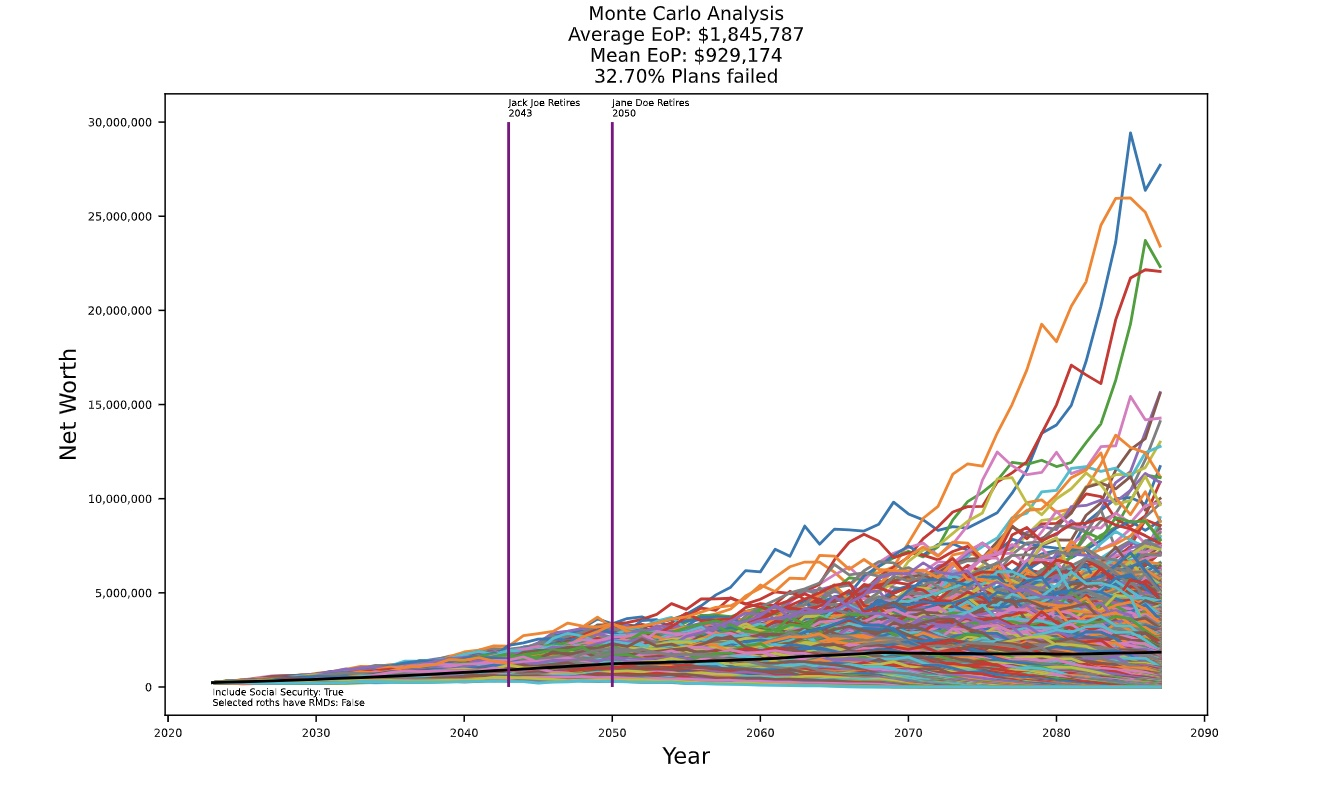
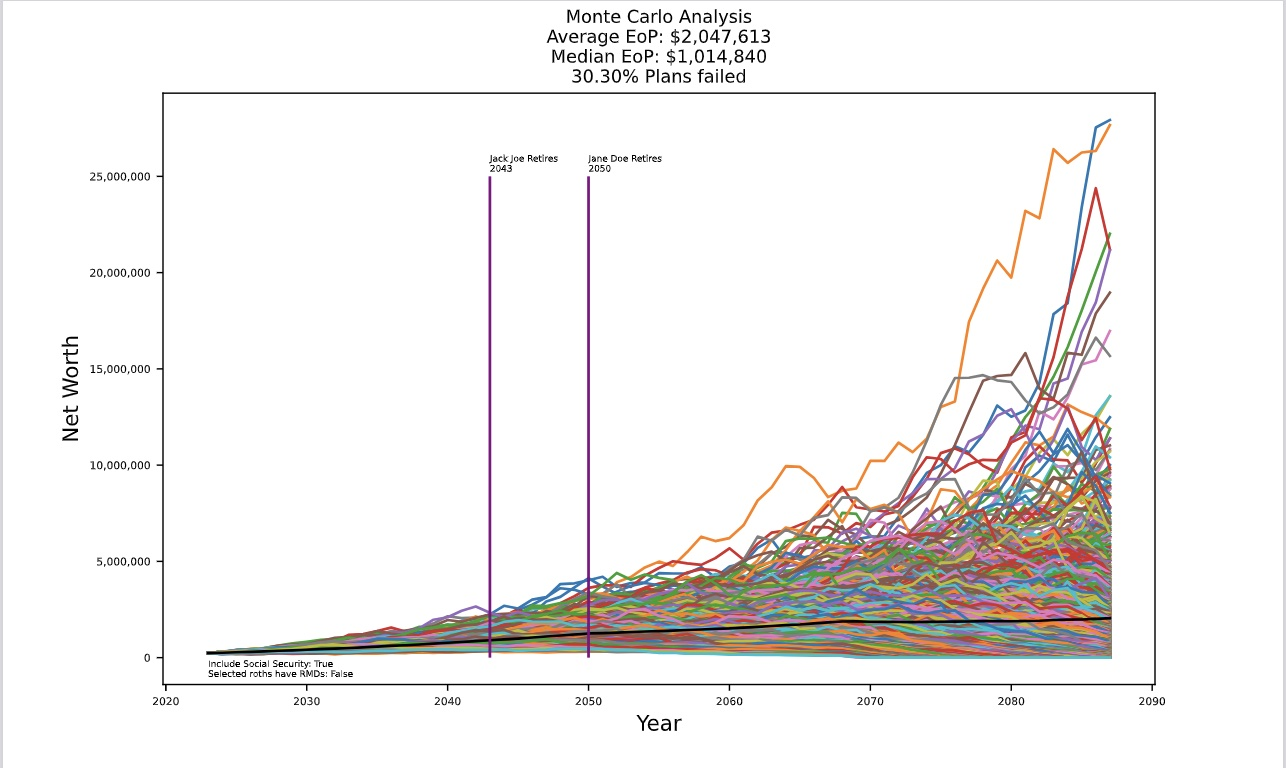
Fixed example output and mean to median

diff --git a/src/plot_monte_carlos.py b/src/plot_monte_carlos.py
@@ -90,7 +90,7 @@ def plot_monte_carlos(data_for_analysis, failed_plans, pdf, owners, trial):
     plt.yticks(fontsize=6)
     plt.title('Monte Carlo Analysis\nAverage EoP: ' 
               + '${:,.0f}\n'.format(average_plot[-1])
-              + "Mean EoP: "
+              + "Median EoP: "
               + '${:,.0f}\n'.format(median)
               + '{:.2f}%'.format(len(failed_plans)/iterations*100)
               + ' Plans failed', fontsize=10)
